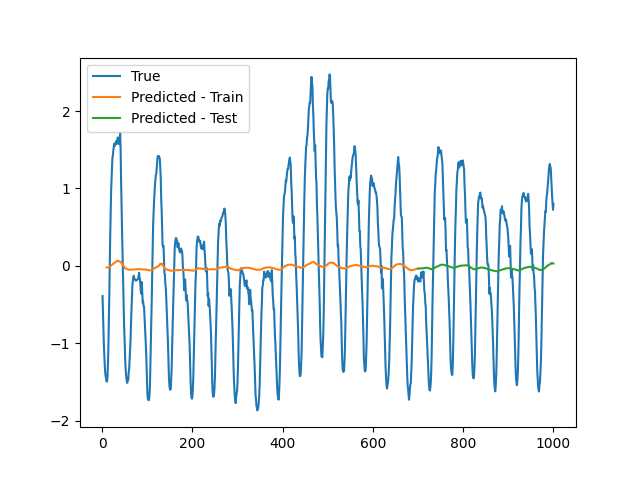
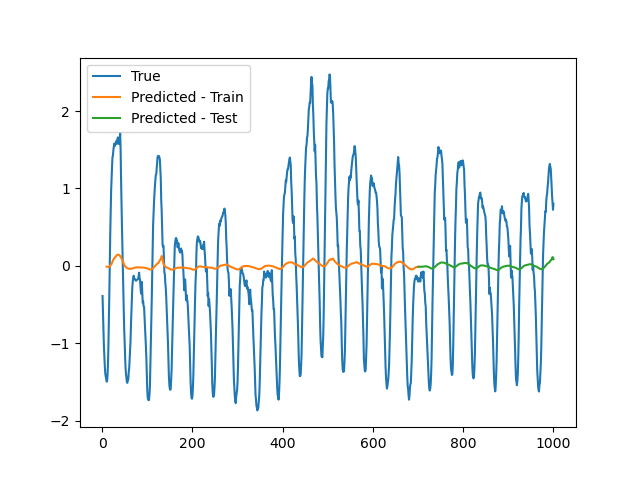
update lstm to gru

diff --git a/iseq2seq.py b/iseq2seq.py
@@ -24,9 +24,9 @@ class Encoder(nn.Module):
         self.input_size = input_size
         self.hidden_size = hidden_size
         self.T = T
-        self.bidirectional = False
-        self.lstm_layer = nn.GRU(input_size=input_size, hidden_size=hidden_size, num_layers=1,bidirectional=self.bidirectional)
-        self.attn_linear = nn.Linear(in_features=1 * hidden_size + T - 1, out_features=1)
+
+        self.lstm_layer = nn.GRU(input_size=input_size, hidden_size=hidden_size, num_layers=1)
+        self.attn_linear = nn.Linear(in_features=2 * hidden_size + T - 1, out_features=1)
 
     def forward(self, input_data):
         # input_data: (batch_size, T - 1, input_size)
@@ -34,53 +34,36 @@ class Encoder(nn.Module):
         input_encoded = Variable(torch.zeros(input_data.size(0), self.T - 1, self.hidden_size))
         # hidden, cell: initial states with dimension hidden_size
         hidden = init_hidden(input_data, self.hidden_size)  # 1 * batch_size * hidden_size
-        # cell = init_hidden(input_data, self.hidden_size)
+        cell = init_hidden(input_data, self.hidden_size)
 
-        '''
-        input_weighted 34 9 5
-        input encoder 34 9 64
-        hidden 1 34 64
-        cell 1 34 64
-        input_data 34 9 5
-        '''
       # (batch_size, input_size)
+
         for t in range(self.T - 1):
             # Eqn. 8: concatenate the hidden states with each predictor
             # TODO permute转化tensor维度 encoder的输入是隐藏状态和每一个cell
             #  repeat表示对张量进行扩充，在这里是对通道数(行)进扩充
             #  cat是对tensor进行拼接
-
-            # todo
-            # hidden repeat 34 5 64
-            # cell repeat 34 5 64
-            # input_data 34 5 9
-            
             x = torch.cat((hidden.repeat(self.input_size, 1, 1).permute(1, 0, 2),
-                        # cell.repeat(self.input_size, 1, 1).permute(1, 0, 2),
+                     #   cell.repeat(self.input_size, 1, 1).permute(1, 0, 2),
                         input_data.permute(0, 2, 1)), dim=2)  # batch_size * input_size * (2*hidden_size + T - 1)
-
-            # todo x 34 5 137
-
             # Eqn. 8: Get attention weights
-            x = self.attn_linear(x.view(-1, self.hidden_size * 1 + self.T - 1))  # (batch_size * input_size) * 1
-            # todo x (170 1)
+            x = self.attn_linear(x.view(-1, self.hidden_size * 2 + self.T - 1))  # (batch_size * input_size) * 1
             # Eqn. 9: Softmax the attention weights
             attn_weights = tf.softmax(x.view(-1, self.input_size), dim=1)
-            # todo 34 5
+
             # Eqn. 10: LSTM 逐元素相乘
             weighted_input = torch.mul(attn_weights, input_data[:, t, :])  # (batch_size, input_size)
-            # todo 34 5
             # Fix the warning about non-contiguous memory
             # see https://discuss.pytorch.org/t/dataparallel-issue-with-flatten-parameter/8282
             self.lstm_layer.flatten_parameters()
             _, lstm_states = self.lstm_layer(weighted_input.unsqueeze(0), (hidden))
-            # 1 34 5 ,1 34 64, 1 34 64
-            hidden = lstm_states
+            hidden = lstm_states[0]
             #cell = lstm_states[1]
             # Save output
             input_weighted[:, t, :] = weighted_input
             input_encoded[:, t, :] = hidden
 
+        print('input_encoded shape',input_encoded.shape) # 128 9 64
         return input_weighted, input_encoded
 
 class Decoder(nn.Module):
@@ -91,12 +74,12 @@ class Decoder(nn.Module):
         self.T = T
         self.encoder_hidden_size = encoder_hidden_size
         self.decoder_hidden_size = decoder_hidden_size
-        self.bidirectional = False
-        self.attn_layer = nn.Sequential(nn.Linear(1 * decoder_hidden_size + encoder_hidden_size,
+
+        self.attn_layer = nn.Sequential(nn.Linear(2 * decoder_hidden_size + encoder_hidden_size,
                                                   encoder_hidden_size),
                                         nn.Tanh(),
                                         nn.Linear(encoder_hidden_size, 1))
-        self.lstm_layer = nn.GRU(input_size=out_feats, hidden_size=decoder_hidden_size,bidirectional=self.bidirectional)
+        self.lstm_layer = nn.LSTM(input_size=out_feats, hidden_size=decoder_hidden_size)
         self.fc = nn.Linear(encoder_hidden_size + out_feats, out_feats)
         self.fc_final = nn.Linear(decoder_hidden_size + encoder_hidden_size, out_feats)
         self.fc.weight.data.normal_()
@@ -112,12 +95,12 @@ class Decoder(nn.Module):
         for t in range(self.T - 1):
             # (batch_size, T, (2 * decoder_hidden_size + encoder_hidden_size))
             x = torch.cat((hidden.repeat(self.T - 1, 1, 1).permute(1, 0, 2),
-                          # cell.repeat(self.T - 1, 1, 1).permute(1, 0, 2),
+                     #      cell.repeat(self.T - 1, 1, 1).permute(1, 0, 2),
                            input_encoded), dim=2)
             # Eqn. 12 & 13: softmax on the computed attention weights
             x = tf.softmax(
                     self.attn_layer(
-                        x.view(-1, 1 * self.decoder_hidden_size + self.encoder_hidden_size)
+                        x.view(-1, 2 * self.decoder_hidden_size + self.encoder_hidden_size)
                     ).view(-1, self.T - 1),
                     dim=1)  # (batch_size, T - 1)
 
@@ -129,8 +112,8 @@ class Decoder(nn.Module):
             # Eqn. 16: LSTM
             self.lstm_layer.flatten_parameters()
             _, lstm_output = self.lstm_layer(y_tilde.unsqueeze(0), (hidden))
-            hidden = lstm_output  # 1 * batch_size * decoder_hidden_size
-            #cell = lstm_output[1]  # 1 * batch_size * decoder_hidden_size
+            hidden = lstm_output[0]  # 1 * batch_size * decoder_hidden_size
+        #    cell = lstm_output[1]  # 1 * batch_size * decoder_hidden_size
 
         # Eqn. 22: final output
         return self.fc_final(torch.cat((hidden[0], context), dim=1))

diff --git a/main_debug.py b/main_debug.py
@@ -7,21 +7,8 @@ Description: In User Settings Edit
 FilePath: /PyCode/project_demo/研二/code/main_debug.py
 '''
 # %%
-import typing
-from typing import Tuple
-import json
-import os
-import torch
-from torch import nn
-from torch import optim
-import joblib
-import pandas as pd
-import numpy as np
-
-import utils
-from custom_types import *
-from constants import device
-from lstm import * 
+from lstm import *
+from iseq2seq import *
 from  train import * 
 logger = utils.setup_log()
 logger.info(f"Using computation device: {device}")
@@ -82,7 +69,12 @@ def trainMode(mode_name):
         iter_loss, epoch_loss = train_rnn(
             model,data,config,n_epochs=30,save_plots=save_plots)
 
-    
+    # elif mode_name == 'Seq2Seq':
+    #     s2s_args = init_args
+    #     config, model = seq2seq(data, n_targs=len(targ_cols), learning_rate=.001, **s2s_args)
+    #     print('model', model)
+    #     iter_loss, epoch_loss = train_s2s(
+    #         model, data, config, n_epochs=30, save_plots=save_plots)
 
 
 trainMode('DARNN')

diff --git a/train.py b/train.py
@@ -12,6 +12,8 @@ FilePath: /PyCode/project_demo/研二/code/train.py
 import typing
 from typing import Tuple
 import json
+
+from sklearn.metrics.mape import mean_absolute_percentage_error
 from sklearn.preprocessing import StandardScaler
 from torch import nn
 from torch import optim
